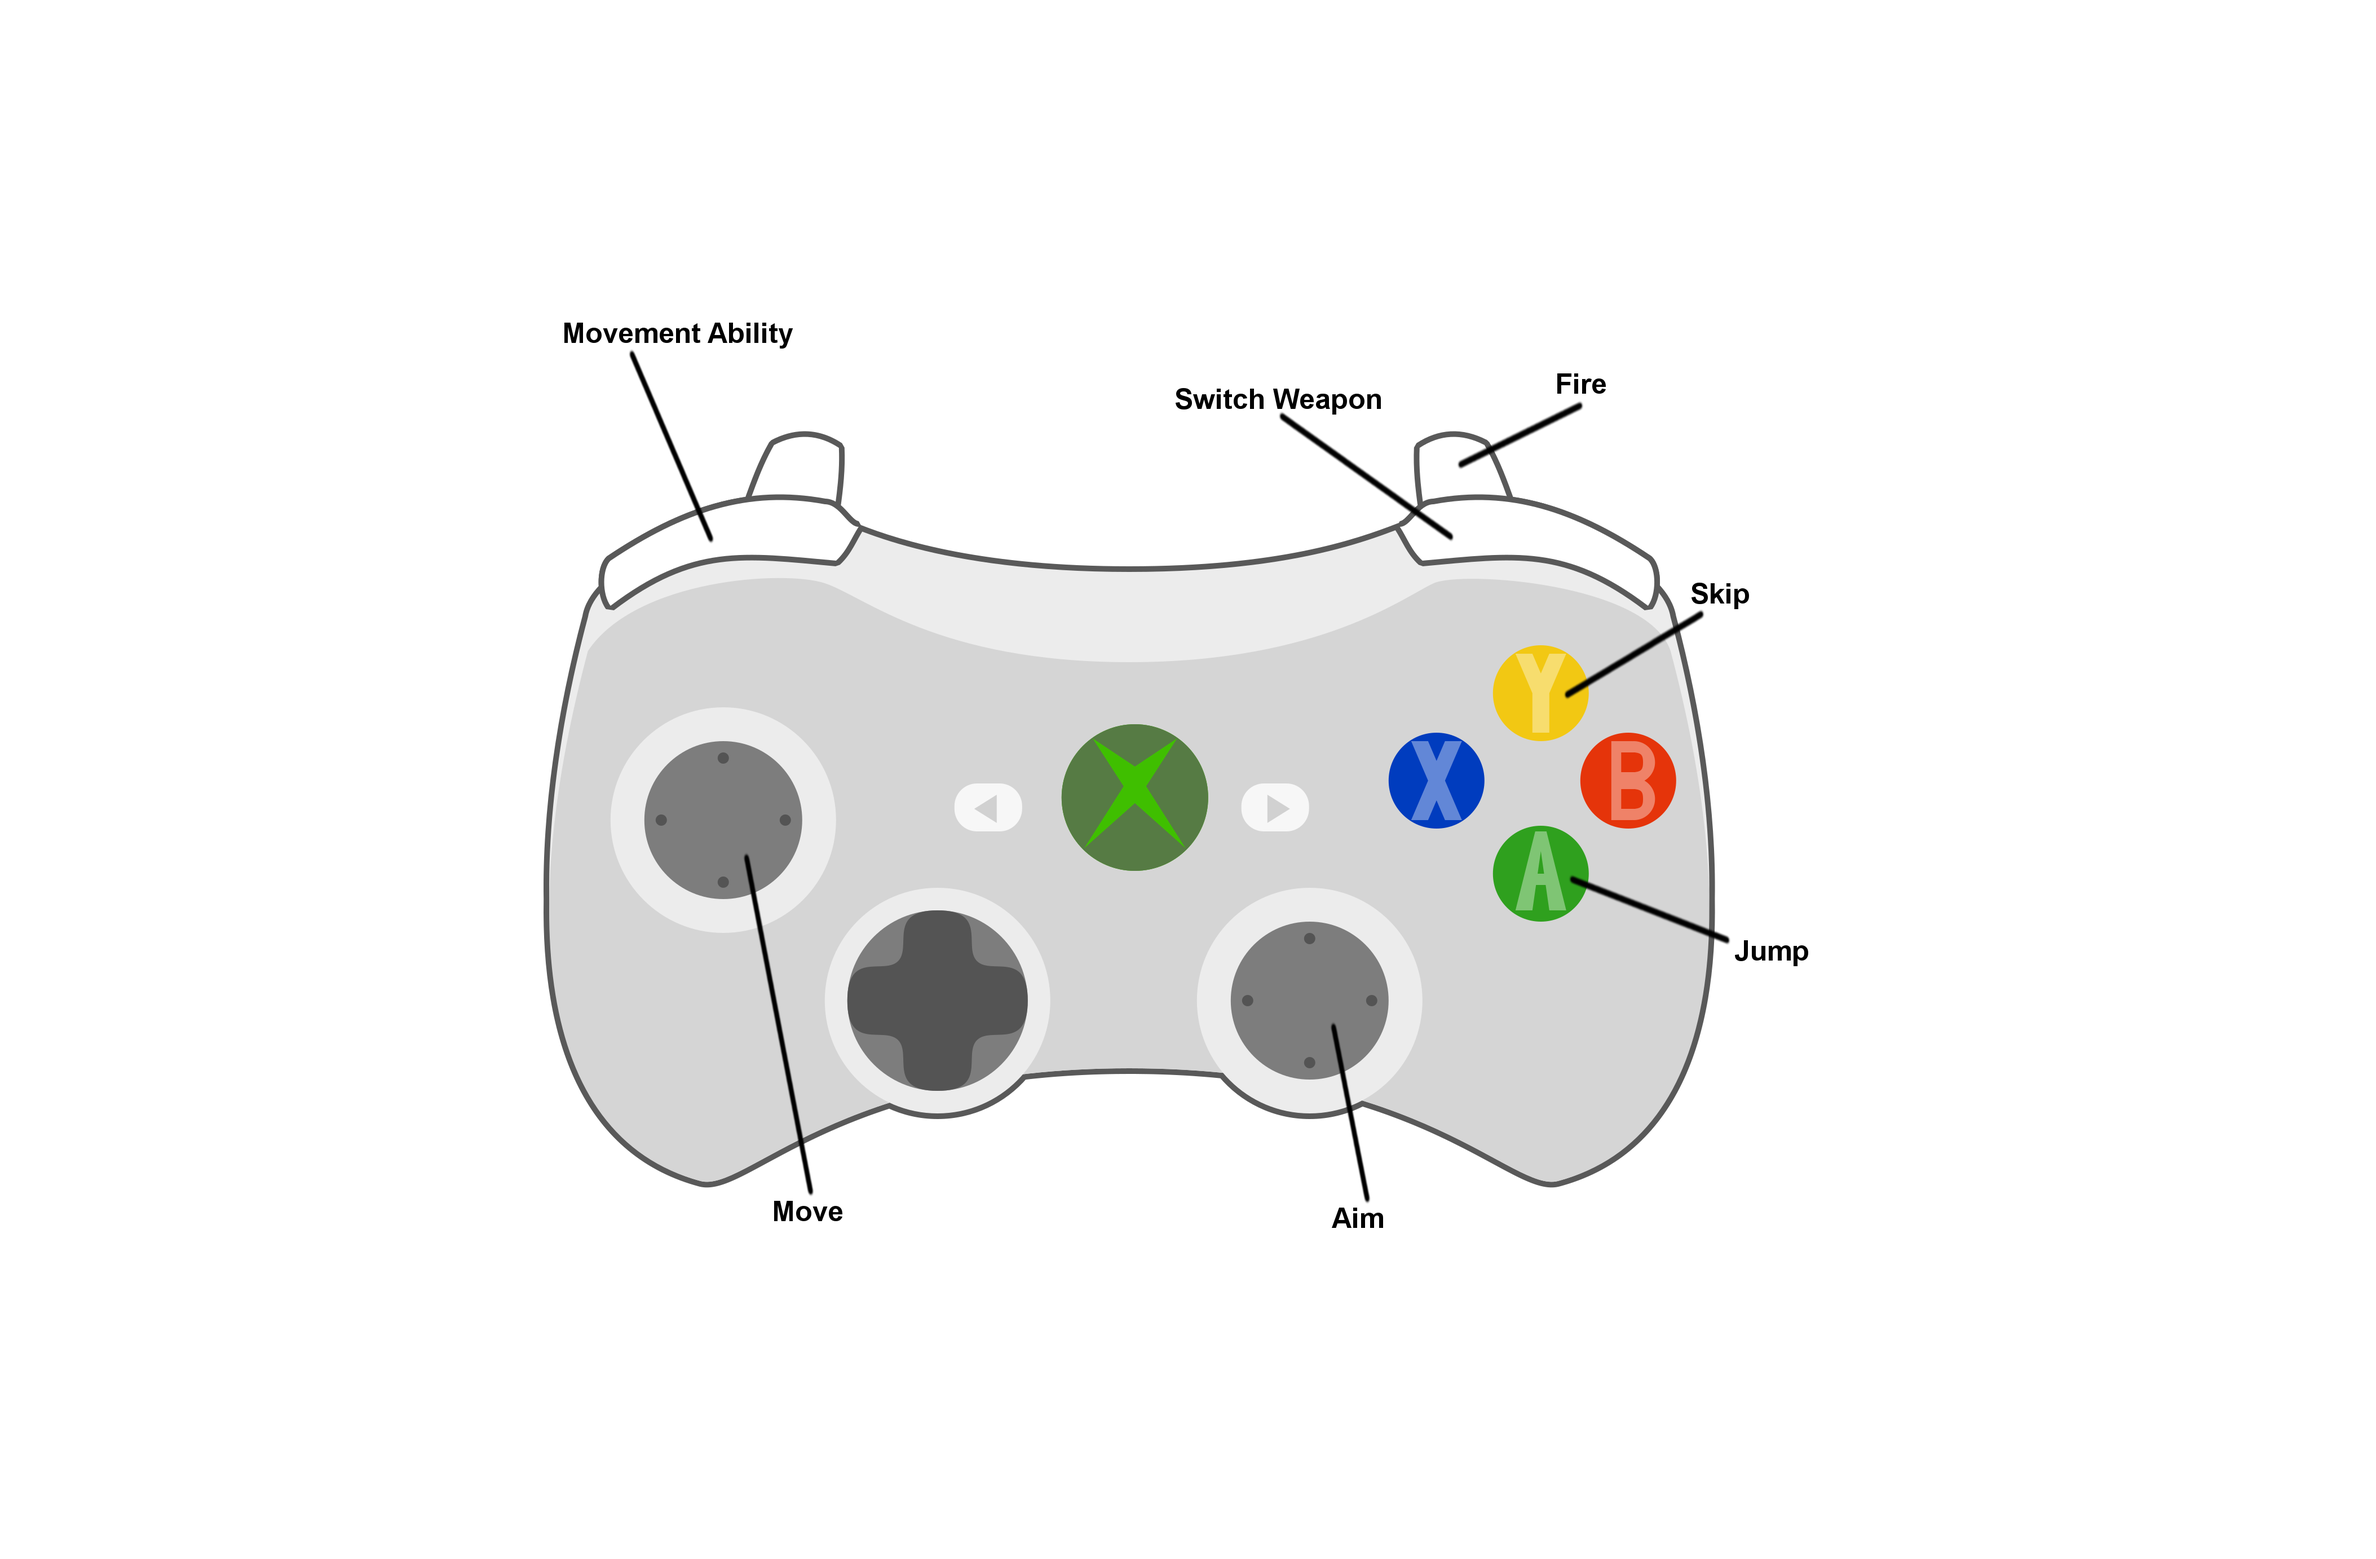
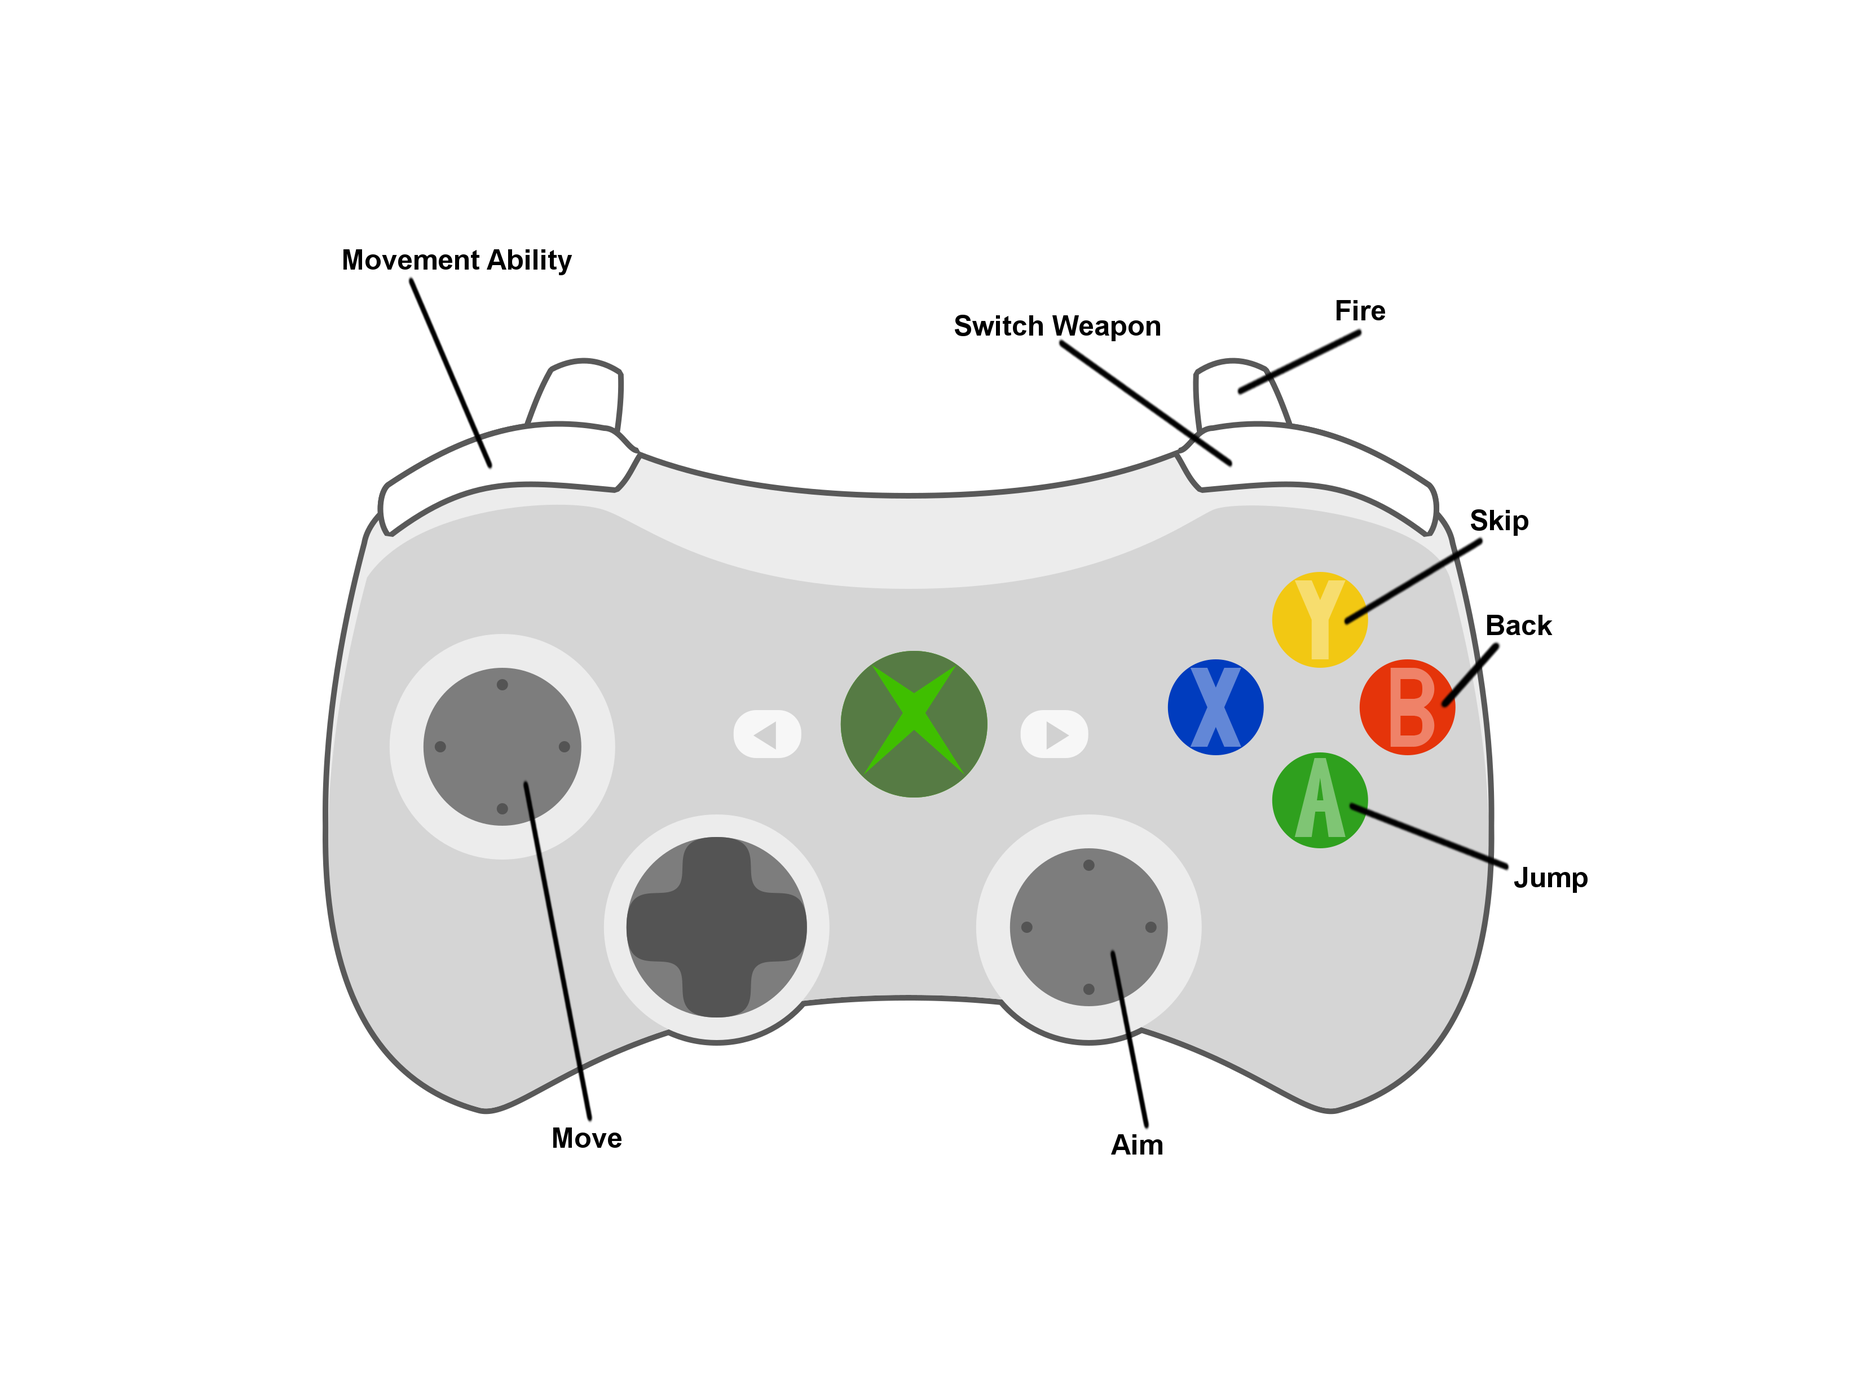
All the smol fixes

Changed region(s): [[0.1554, 0.2184, 0.8392, 0.8424], [0.1865, 0.1872, 0.3419, 0.2808], [0.7148, 0.2184, 0.7459, 0.2496]]

diff --git a/Neo Divitias/Assets/Scripts/Menu and Game State/MainMenu.cs b/Neo Divitias/Assets/Scripts/Menu and Game State/MainMenu.cs
@@ -5,6 +5,14 @@ public class MainMenu : MonoBehaviour {
     bool player1;
     bool player2;
 
+    private void Update()
+    {
+        if (Input.GetButtonDown("Back") && SceneManager.GetActiveScene().name == "Shop")
+        {
+            ReturnToMain();
+        }
+    }
+
     public void NewGame(){
         GameState.game_level = 1;
         GameState.player_one = new Player("1");
@@ -15,21 +23,8 @@ public class MainMenu : MonoBehaviour {
     }
 
     public void StartNextLevel(){
-        
-       /* if (p == 1)
-        {
-            player1 = true;
-        }else if(p == 2)
-        {
-            player2 = true;
-        }
-        if (player1 && player2)
-        {*/
-        
-            GameState.SetPrefs();
-            SceneManager.LoadScene(string.Format("Cutscene {0}", GameState.game_level));
-        //}
-       
+        GameState.SetPrefs();
+        SceneManager.LoadScene(string.Format("Cutscene {0}", GameState.game_level));
     }
 
     public void PlayTutorial()

diff --git a/Neo Divitias/Assets/Scripts/Combat/Equipment/Weapons/Weapon.cs b/Neo Divitias/Assets/Scripts/Combat/Equipment/Weapons/Weapon.cs
@@ -58,7 +58,7 @@ public abstract class Weapon : Equipment
             Vector3 rayOrigin = playerCam.ViewportToWorldPoint(new Vector3(0.5f, 0.5f, 0));
 			RaycastHit hit;
 
-			if (Physics.Raycast(rayOrigin, playerCam.transform.forward, out hit, range[level-1]))
+			if (Physics.Raycast(rayOrigin, playerCam.transform.forward, out hit, range[level-1], Physics.DefaultRaycastLayers, QueryTriggerInteraction.Ignore))
 			{
 				DamageableObject target = hit.collider.GetComponent<DamageableObject>();
 

diff --git a/Neo Divitias/Assets/Scripts/Game Control/GameManager.cs b/Neo Divitias/Assets/Scripts/Game Control/GameManager.cs
@@ -52,6 +52,7 @@ public class GameManager : MonoBehaviour {
             p1Money.SetText("$" + GameState.player_one.money);
             p2Money.SetText("$" + GameState.player_two.money);
         }
+
         if (Input.GetButtonDown("Skip"))
         {
             if (SceneManager.GetActiveScene().name == "Tutorial")
